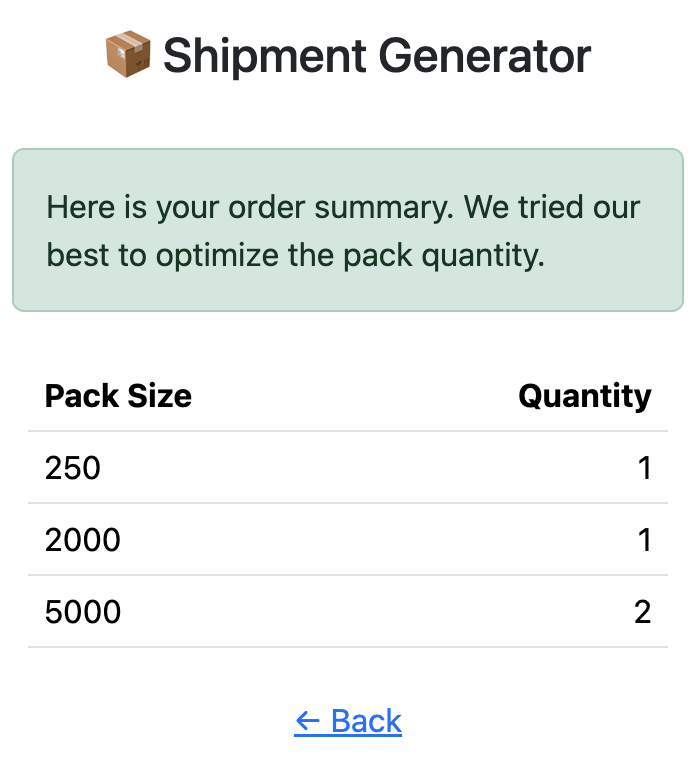
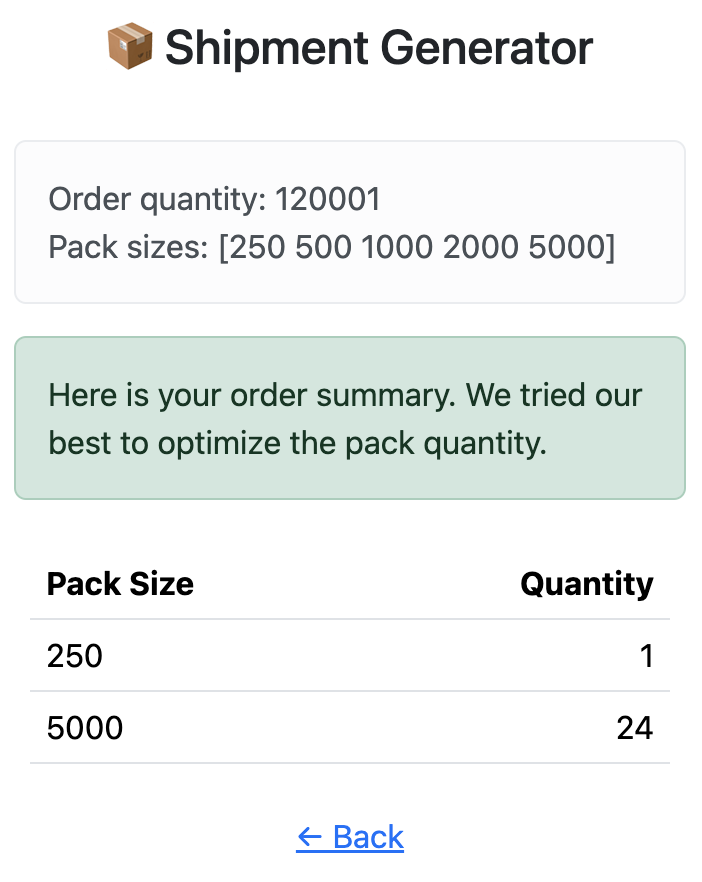
updated screenshot

diff --git a/api/api.go b/api/api.go
@@ -98,32 +98,24 @@ func getSizesFromContext(c *gin.Context) ([]int, error) {
 
 // Wrapper function to get query params `sizes` and `quantity` from context and create an
 // order summary out of them.
-func generateShipmentFromContext(c *gin.Context) (map[int]int, error) {
+func generateShipmentFromContext(c *gin.Context) (map[int]int, int, []int, error) {
 	var res map[int]int
 	v, err := strconv.Atoi(c.Query("quantity"))
 
-	if err != nil {
-		return res, errors.New("Cannot parse quantity. Please check your input.")
-	}
-
-	if v < 0 {
-		return res, errors.New("Quantity cannot be negative.")
-	}
-
-	if v > 2147483647 {
-		return res, errors.New("Quantity too big, must be int32.")
+	if err != nil || v < 0 || v > 2147483647 {
+		return res, v, []int{}, errors.New("Cannot parse quantity. Please check your input.")
 	}
 
 	sizes, err := getSizesFromContext(c)
 
 	if err != nil {
-		return res, errors.New("Cannot parse sizes. Please check your input.")
+		return res, v, []int{}, errors.New("Cannot parse sizes. Please check your input.")
 	}
 
 	slices.Sort(sizes)
 
 	res, _ = generateShipment(v, sizes)
-	return res, nil
+	return res, v, sizes, nil
 }
 
 // Views
@@ -135,17 +127,19 @@ func IndexHTML(c *gin.Context) {
 
 // Returns a HTML page including the requested order's summary
 func GetShipmentHTML(c *gin.Context) {
-	res, err := generateShipmentFromContext(c)
+	res, v, sizes, err := generateShipmentFromContext(c)
 
 	c.HTML(http.StatusOK, "pages/order.tmpl", gin.H{
 		"shipmentSummary": res,
 		"err":             err,
+		"quantity":        v,
+		"sizes":           sizes,
 	})
 }
 
 // Returns a JSON including the requested order's summary
 func GetShipment(c *gin.Context) {
-	res, err := generateShipmentFromContext(c)
+	res, _, _, err := generateShipmentFromContext(c)
 
 	if err != nil {
 		c.Status(http.StatusBadRequest)
